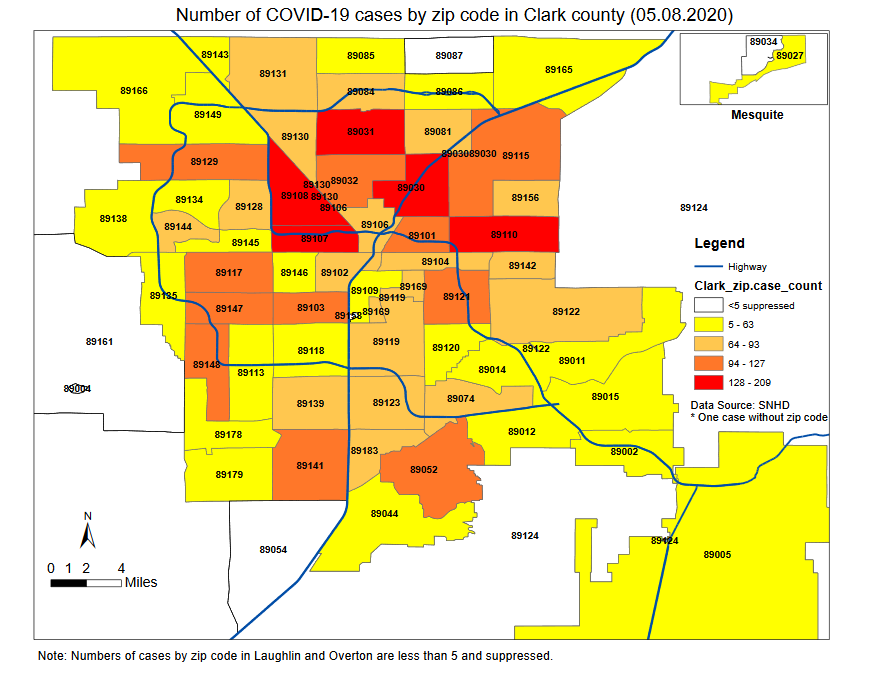
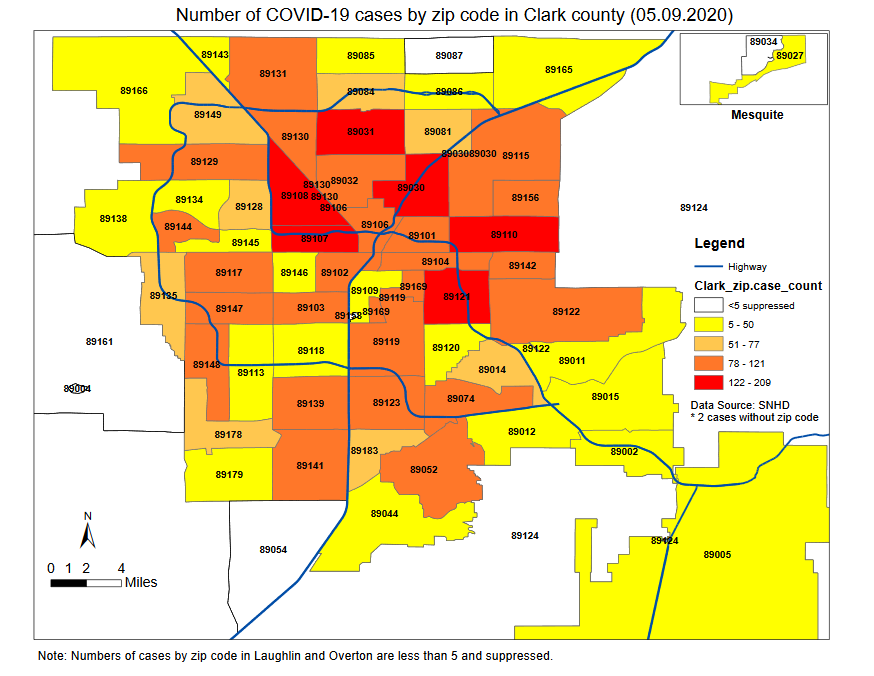
looking better

diff --git a/src/pages/nevada.js b/src/pages/nevada.js
@@ -80,6 +80,7 @@ class NevadaPage extends Component {
         '05/06/20',
         '05/07/20',
         '05/08/20',
+        '05/09/20',
       ],
       datasets: [
         {
@@ -151,6 +152,7 @@ class NevadaPage extends Component {
             5766,
             5884,
             6028,
+            6098,
           ],
           fill: false, // Don't fill area under the line
           backgroundColor: '#933A16', // Line color
@@ -225,6 +227,7 @@ class NevadaPage extends Component {
         '05/06/20',
         '05/07/20',
         '05/08/20',
+        '05/09/20',
       ],
       datasets: [
         {
@@ -296,6 +299,7 @@ class NevadaPage extends Component {
             133,
             118,
             144,
+            70,
           ],
           fill: false, // Don't fill area under the line
           backgroundColor: '#933A16', // Line color
@@ -370,6 +374,7 @@ class NevadaPage extends Component {
         '05/06/20',
         '05/07/20',
         '05/08/20',
+        '05/09/20',
       ],
       datasets: [
         {
@@ -437,10 +442,11 @@ class NevadaPage extends Component {
             274,
             277,
             281,
-            284,
-            293,
-            300,
-            301,
+            285,
+            295,
+            302,
+            304,
+            305,
           ],
           backgroundColor: 'maroon',
         },
@@ -503,6 +509,7 @@ class NevadaPage extends Component {
         '05/06/20',
         '05/07/20',
         '05/08/20',
+        '05/09/20',
       ],
       datasets: [
         {
@@ -560,8 +567,9 @@ class NevadaPage extends Component {
             3,
             4,
             3,
-            9,
+            10,
             7,
+            2,
             1,
           ],
         }
@@ -616,6 +624,7 @@ class NevadaPage extends Component {
         '05/06/20',
         '05/07/20',
         '05/08/20',
+        '05/09/20',
       ],
       datasets: [
         {
@@ -670,6 +679,7 @@ class NevadaPage extends Component {
             11.2,
             11.0,
             10.7,
+            10.4,
           ],
         },
           {
@@ -679,6 +689,7 @@ class NevadaPage extends Component {
             borderColor: 'green',
             pointRadius: 1,
             data: [
+              10.0,
               10.0,
               10.0,
               10.0,
@@ -778,6 +789,7 @@ class NevadaPage extends Component {
         '05/06/20',
         '05/07/20',
         '05/08/20',
+        '05/09/20',
       ],
       datasets: [
         {
@@ -830,6 +842,7 @@ class NevadaPage extends Component {
             1067,
             1078,
             1090,
+            1088,
           ],
         },
       ],
@@ -882,6 +895,7 @@ class NevadaPage extends Component {
           '05/06/20',
           '05/07/20',
           '05/08/20',
+          '05/09/20',
         ],
         datasets: [
         {
@@ -934,6 +948,7 @@ class NevadaPage extends Component {
             16,
             11,
             12,
+            -2,
           ],
         },
       ],
@@ -1007,6 +1022,7 @@ class NevadaPage extends Component {
         '05/06/20',
         '05/07/20',
         '05/08/20',
+        '05/09/20',
       ],
       datasets: [
         {
@@ -1078,6 +1094,7 @@ class NevadaPage extends Component {
             245,
             253,
             256,
+            260,
           ],
           backgroundColor: 'maroon',
         },
@@ -1140,6 +1157,7 @@ class NevadaPage extends Component {
         '05/06/20',
         '05/07/20',
         '05/08/20',
+        '05/09/20',
       ],
       datasets: [
         {
@@ -1200,6 +1218,7 @@ class NevadaPage extends Component {
             7,
             11,
             3,
+            4,
           ]
         }
       ],
@@ -1210,7 +1229,7 @@ class NevadaPage extends Component {
       datasets: [
         {
           label: 'Age of Cases',
-          data: [31, 123, 290, 1903, 1289, 1065],
+          data: [31, 126, 295, 1922, 1295, 1078],
           backgroundColor: [
             'rgb(54, 162, 235)', //blue
             'rgb(255, 99, 132)', //salmon
@@ -1228,7 +1247,7 @@ class NevadaPage extends Component {
       datasets: [
         {
           label: 'Sex',
-          data: [2398, 2212, 94],
+          data: [2420, 2236, 94],
           backgroundColor: [
             'rgb(255, 99, 132)',
             'rgb(54, 162, 235)',
@@ -1294,7 +1313,7 @@ class NevadaPage extends Component {
                   </div>
                   <div className="card-value pt-4">
                     <p className="is-dark-text-light">Total</p>
-                    <h1>56,111</h1>
+                    <h1>58,809</h1>
                   </div>
                 </div>
                 <div className="card grid-card is-card-dark">
@@ -1305,7 +1324,7 @@ class NevadaPage extends Component {
                   </div>
                   <div className="card-value pt-4">
                     <p className="is-dark-text-light">Total</p>
-                    <h1>50,083</h1>
+                    <h1>52,711</h1>
                   </div>
                 </div>
               </div>
@@ -1345,7 +1364,7 @@ class NevadaPage extends Component {
                   </div>
                   <div className="card-value pt-4">
                     <p className="is-dark-text-light">Total</p>
-                    <h1>6,028</h1>
+                    <h1>6,098</h1>
                   </div>
                 </div>
                 <div className="card grid-card is-card-dark">
@@ -1356,7 +1375,7 @@ class NevadaPage extends Component {
                   </div>
                   <div className="card-value pt-4">
                     <p className="is-dark-text-light">Total</p>
-                    <h1>301</h1>
+                    <h1>305</h1>
                   </div>
                 </div>
               </div>
@@ -1413,7 +1432,7 @@ class NevadaPage extends Component {
                     </div>
                     <div className="card-value pt-4">
                       <p className="is-dark-text-light">Total</p>
-                      <h1>4,704</h1>
+                      <h1>4,750</h1>
                     </div>
                   </div>
                   <div className="card grid-card is-card-dark">
@@ -1424,7 +1443,7 @@ class NevadaPage extends Component {
                     </div>
                     <div className="card-value pt-4">
                       <p className="is-dark-text-light">Total</p>
-                      <h1>1,090</h1>
+                      <h1>1,088</h1>
                     </div>
                   </div>
                 </div>
@@ -1463,7 +1482,7 @@ class NevadaPage extends Component {
                     </div>
                     <div className="card-value pt-4">
                       <p className="is-dark-text-light">Total</p>
-                      <h1>256</h1>
+                      <h1>260</h1>
                     </div>
                   </div>
                   <div className="card grid-card is-card-dark">
@@ -1474,7 +1493,7 @@ class NevadaPage extends Component {
                     </div>
                     <div className="card-value pt-4">
                       <p className="is-dark-text-light">Total</p>
-                      <h1>3,936</h1>
+                      <h1>3,963</h1>
                     </div>
                   </div>
                 </div>
@@ -1559,6 +1578,24 @@ class NevadaPage extends Component {
                   Due to limited weekend reporting counts may be artificially
                   low Saturday - Monday.
                 </em>
+              </p>
+              <h3>Nevada Data Sources:</h3>
+              <p>
+                <a
+                  target="_blank"
+                  rel="noopener noreferrer"
+                  href="https://app.powerbigov.us/view?r=eyJrIjoiMjA2ZThiOWUtM2FlNS00MGY5LWFmYjUtNmQwNTQ3Nzg5N2I2IiwidCI6ImU0YTM0MGU2LWI4OWUtNGU2OC04ZWFhLTE1NDRkMjcwMzk4MCJ9"
+                >
+                  Nevada DWWS
+                </a>
+                <br />
+                <a
+                  target="_blank"
+                  rel="noopener noreferrer"
+                  href="https://www.southernnevadahealthdistrict.org/coronavirus"
+                >
+                  SNHD
+                </a>
               </p>
             </div>
           </article>
